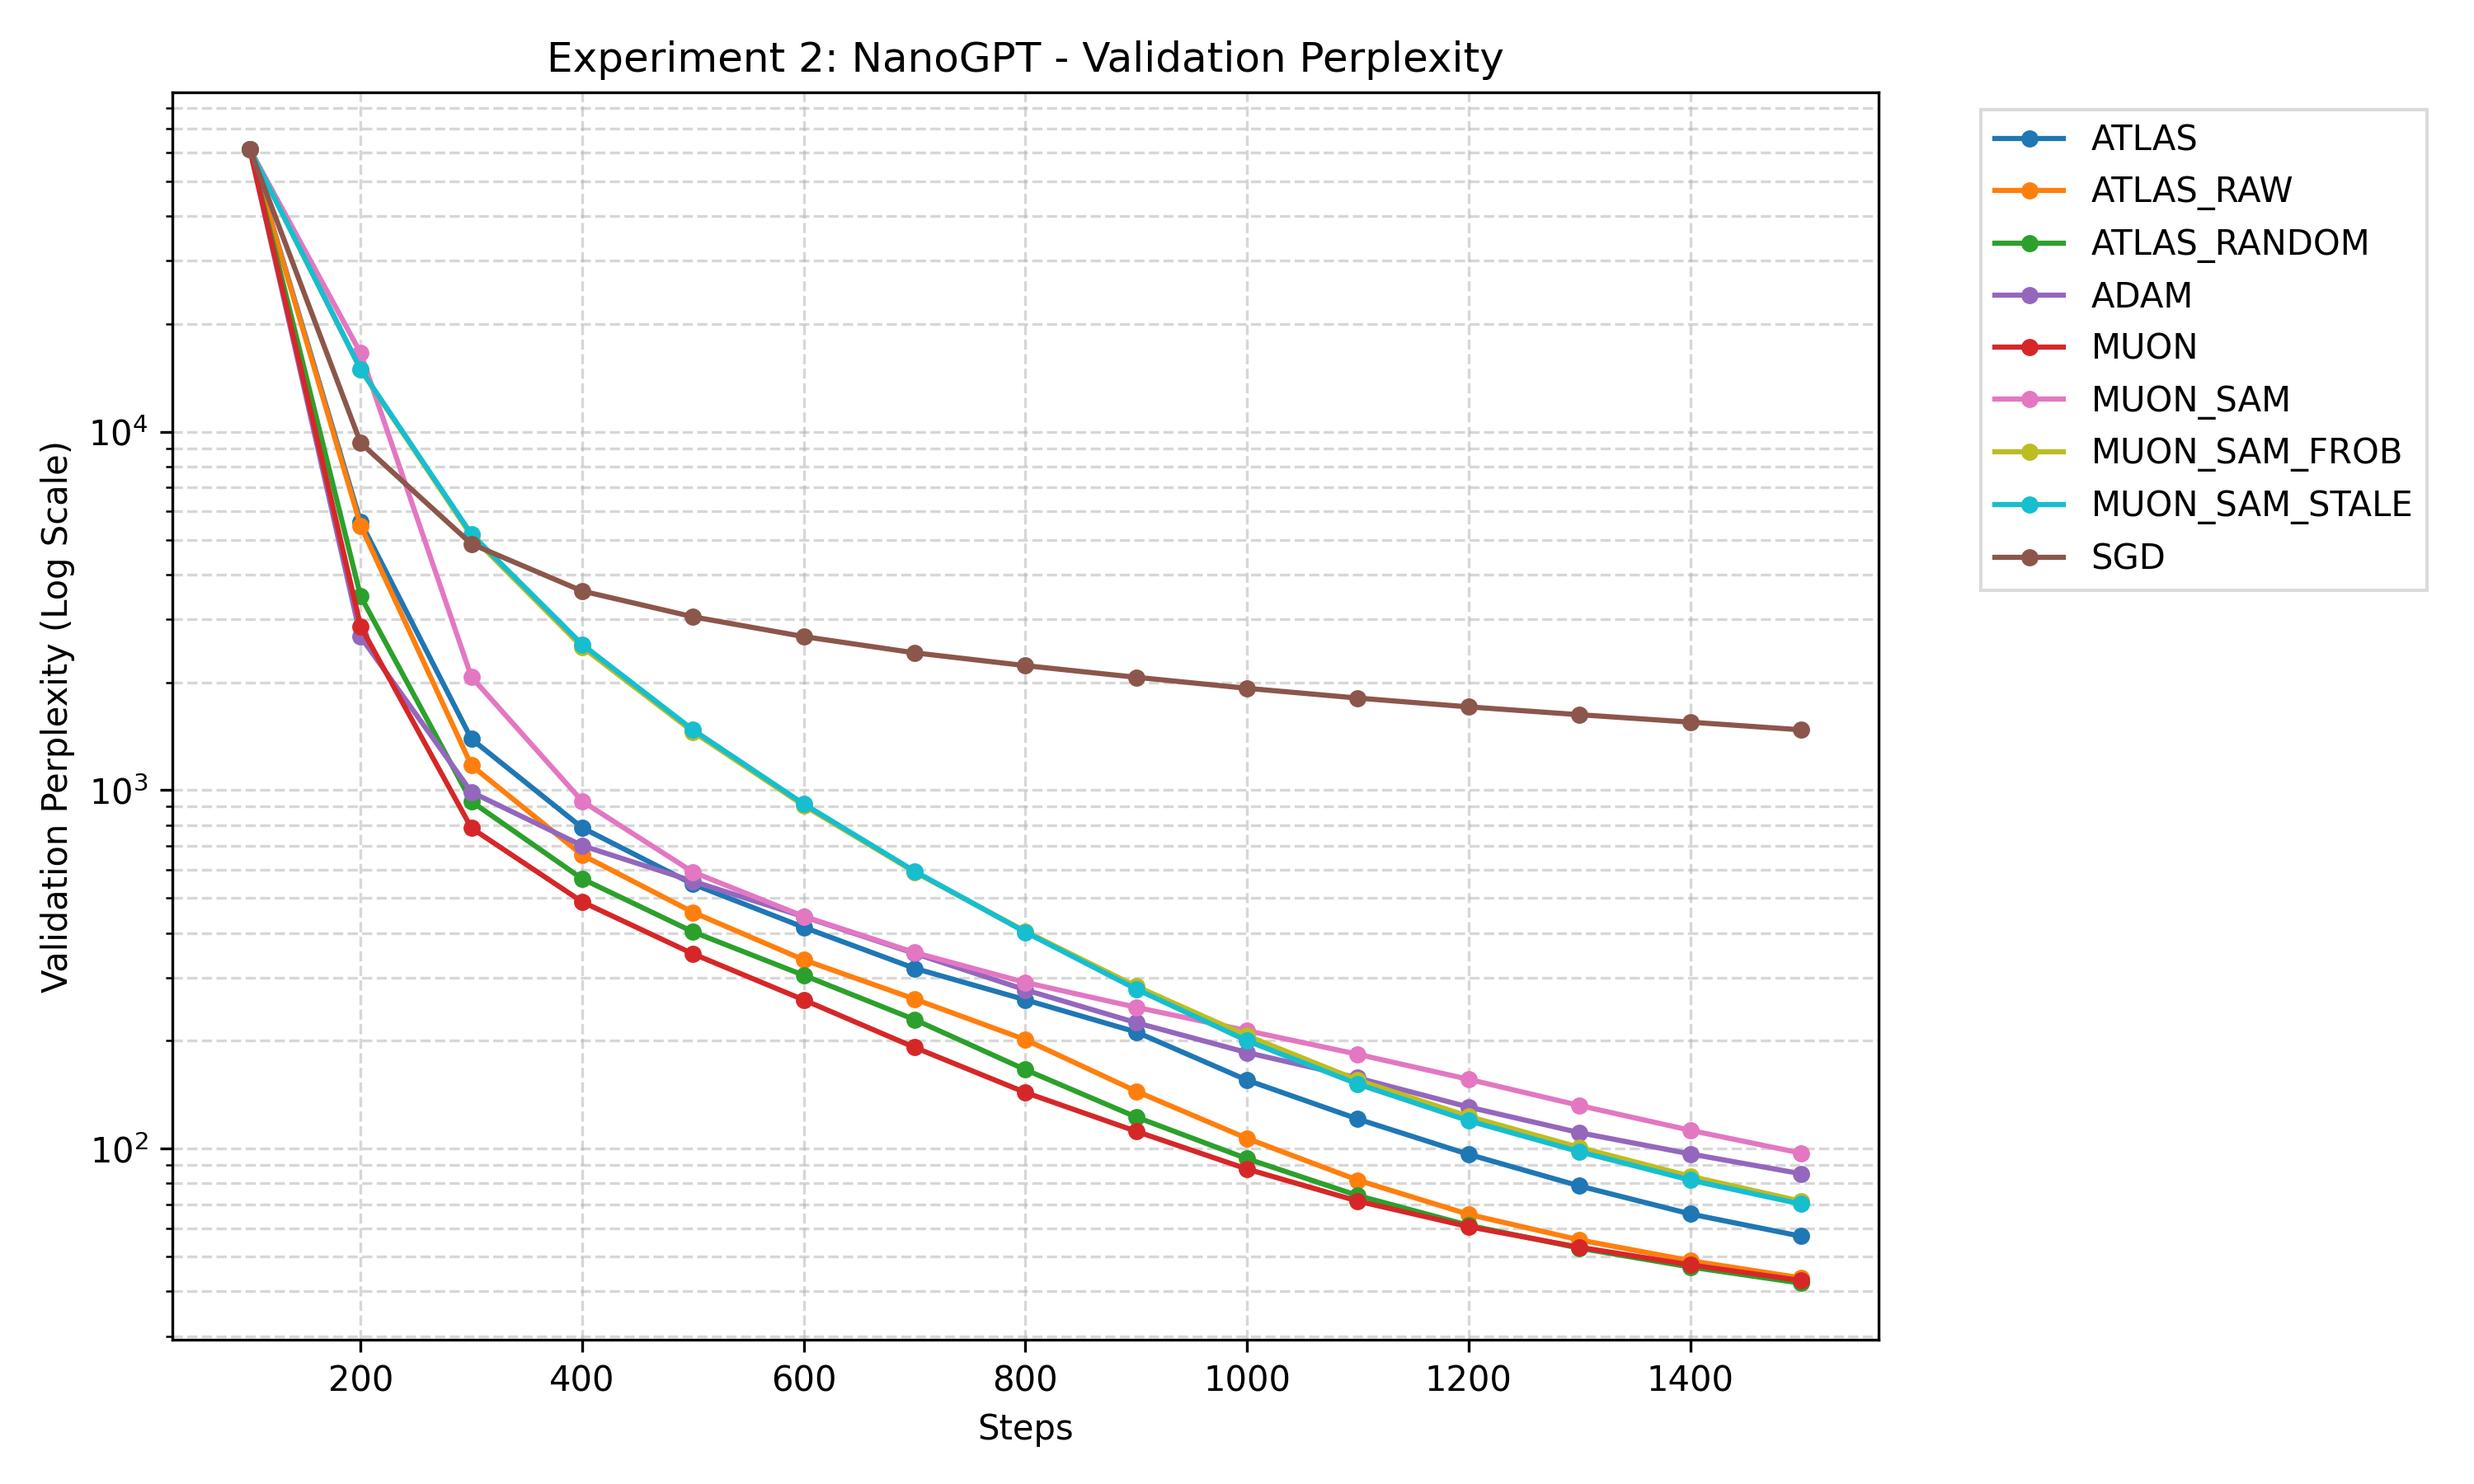
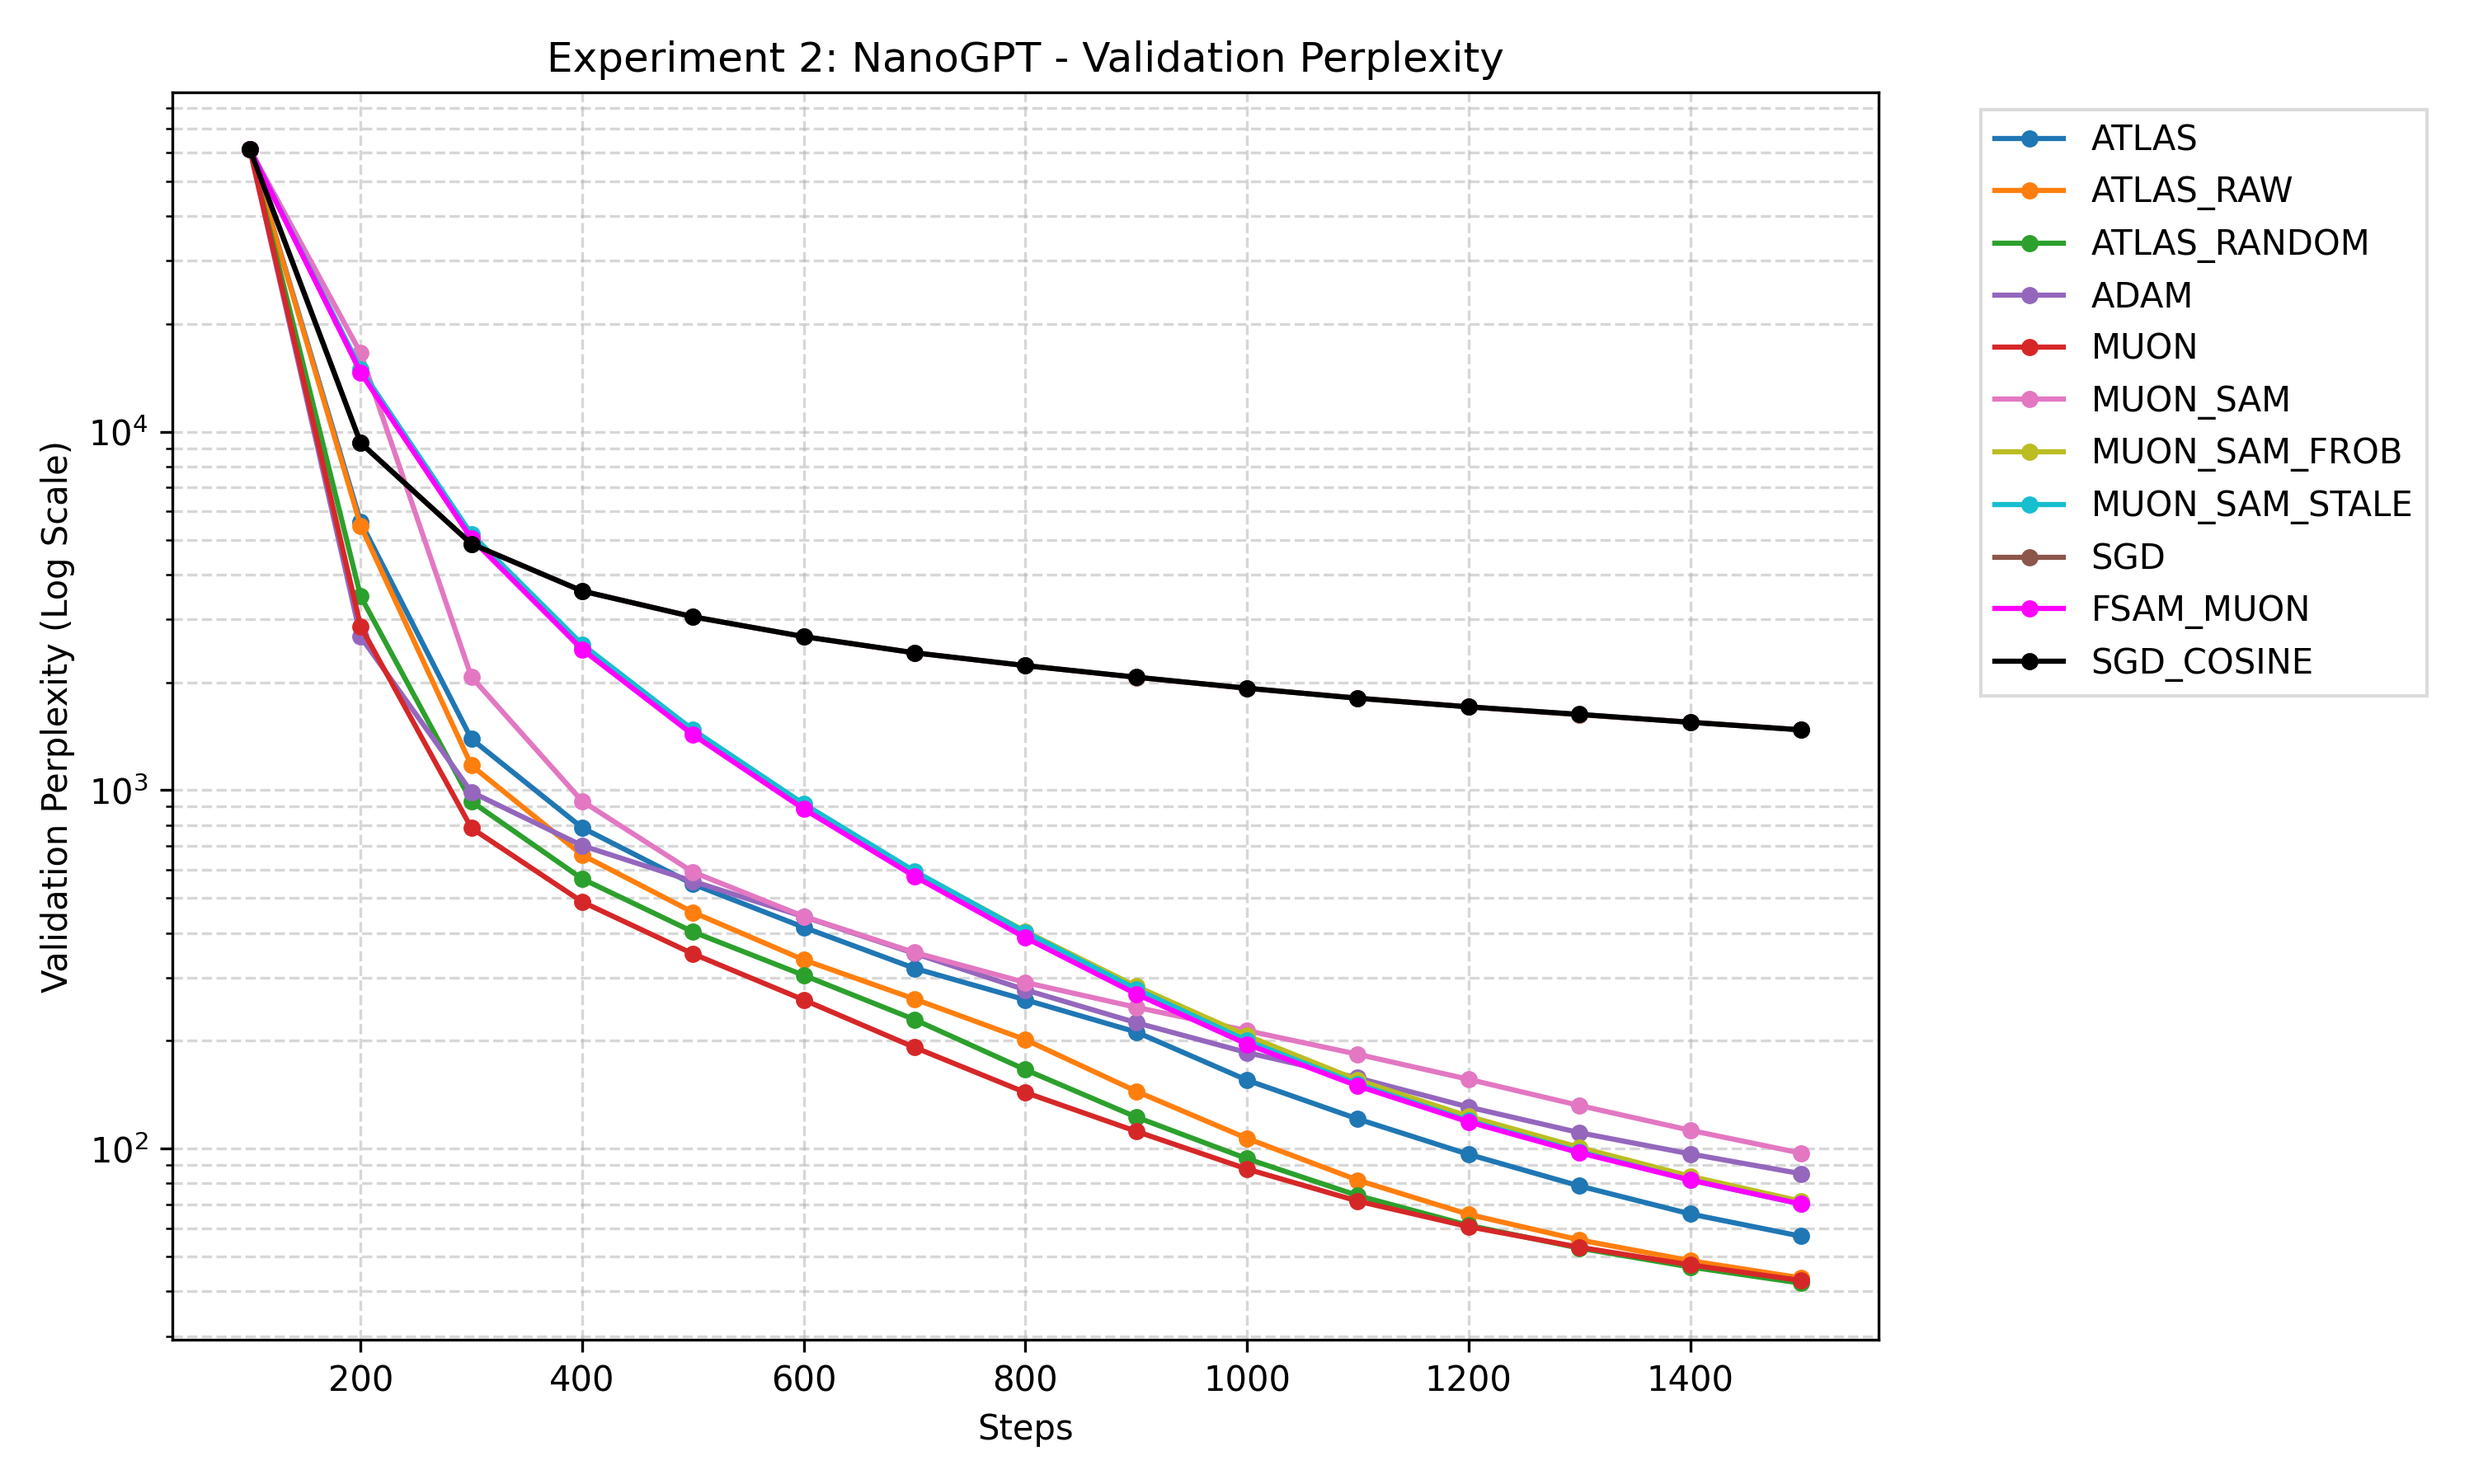
fsam_muon and sgd cosine

diff --git a/helpers/process_logs.py b/helpers/process_logs.py
@@ -64,7 +64,9 @@ def plot_metrics(csv_path, plot_path_prefix, title):
         'sgd': 'tab:brown', 
         'muon_sam': 'tab:pink',
         'muon_sam_frob': 'tab:olive',
-        'muon_sam_stale': 'tab:cyan'
+        'muon_sam_stale': 'tab:cyan',
+        'fsam_muon': 'magenta',
+        'sgd_cosine': 'black'
     }
     
     # 1. PPL Plot (if not cifar)
@@ -131,7 +133,7 @@ def generate_markdown_tables():
             md_ppl += "| Optimizer | Final Validation Perplexity |\n"
             md_ppl += "| :--- | :--- |\n"
             
-        opts_order = ['atlas_random', 'atlas_raw', 'atlas', 'adam', 'muon', 'muon_sam', 'muon_sam_frob', 'muon_sam_stale', 'sgd']
+        opts_order = ['atlas_random', 'atlas_raw', 'atlas', 'adam', 'muon', 'muon_sam', 'muon_sam_frob', 'muon_sam_stale', 'fsam_muon', 'sgd', 'sgd_cosine']
         for opt in opts_order:
             opt_df = df[df['optimizer'].str.lower() == opt]
             if opt_df.empty: continue
@@ -146,8 +148,10 @@ def generate_markdown_tables():
             if display_name == 'MUON_SAM': display_name = 'Muon-SAM'
             elif display_name == 'MUON_SAM_FROB': display_name = 'Muon-SAM (Frob)'
             elif display_name == 'MUON_SAM_STALE': display_name = 'Muon-SAM (Stale)'
+            elif display_name == 'FSAM_MUON': display_name = 'FSAM-Muon'
             elif display_name == 'ADAM': display_name = 'AdamW'
             elif display_name == 'SGD': display_name = 'SGD'
+            elif display_name == 'SGD_COSINE': display_name = 'SGD (Cosine)'
             elif display_name == 'MUON': display_name = 'Muon'
             elif display_name == 'ATLAS': display_name = 'Atlas'
             elif display_name == 'ATLAS_RAW': display_name = 'Atlas Raw'
@@ -181,21 +185,24 @@ def update_readme():
 
 if __name__ == '__main__':
     # 1. CIFAR10
-    df_frob_stale_1 = parse_log_text('run1_frob_stale_cifar10.log', 100)
-    df_sgd_1 = parse_log_text('final_logs/run1_sgd_new.log', 100)
-    combine_and_save_csv('final_logs/run1_cifar10_logs.csv', [df_frob_stale_1, df_sgd_1])
+    df_fsam_1 = parse_log_text('run1_fsam_muon_cifar10.log', 100)
+    combine_and_save_csv('final_logs/run1_cifar10_logs.csv', [df_fsam_1])
     plot_metrics('final_logs/run1_cifar10_logs.csv', 'final_logs/run1_cifar10', 'Experiment 1: CIFAR-10')
 
     # 2. NanoGPT
-    df_frob_stale_2 = parse_log_text('run2_frob_stale_nanogpt.log', 100)
-    df_sgd_2 = parse_log_text('final_logs/run2_sgd_new.log', 100)
-    combine_and_save_csv('final_logs/run2_nanogpt_logs.csv', [df_frob_stale_2, df_sgd_2])
+    df_fsam_2 = parse_log_text('run2_fsam_muon_nanogpt.log', 100)
+    df_sgd_cos_2 = parse_log_text('run2_sgd_cosine_nanogpt.log', 100)
+    if not df_sgd_cos_2.empty:
+        df_sgd_cos_2['optimizer'] = 'sgd_cosine'
+    combine_and_save_csv('final_logs/run2_nanogpt_logs.csv', [df_fsam_2, df_sgd_cos_2])
     plot_metrics('final_logs/run2_nanogpt_logs.csv', 'final_logs/run2_nanogpt', 'Experiment 2: NanoGPT')
 
     # 3. Pythia
-    df_frob_stale_3 = parse_log_text('run3_frob_stale_pythia.log', 100)
-    df_sgd_3 = parse_log_text('final_logs/run3_sgd_new.log', 100)
-    combine_and_save_csv('final_logs/run3_pythia_logs.csv', [df_frob_stale_3, df_sgd_3])
+    df_fsam_3 = parse_log_text('run3_fsam_muon_pythia.log', 100)
+    df_sgd_cos_3 = parse_log_text('run3_sgd_cosine_pythia.log', 100)
+    if not df_sgd_cos_3.empty:
+        df_sgd_cos_3['optimizer'] = 'sgd_cosine'
+    combine_and_save_csv('final_logs/run3_pythia_logs.csv', [df_fsam_3, df_sgd_cos_3])
     plot_metrics('final_logs/run3_pythia_logs.csv', 'final_logs/run3_pythia', 'Experiment 3: Pythia')
 
     update_readme()

diff --git a/README.md b/README.md
@@ -195,6 +195,7 @@ Output: `final_logs/<name>_logs.csv` (with `step` column) and `final_logs/<name>
 | **Muon-SAM** | 0.9166 | 34.67% | 0.8812 | 69.37% |
 | **Muon-SAM (Frob)** | 0.6736 | 38.76% | 0.6606 | 77.16% |
 | **Muon-SAM (Stale)** | 0.6771 | 38.64% | 0.6746 | 76.61% |
+| **FSAM-Muon** | 0.7493 | 37.42% | 0.7197 | 74.62% |
 | **SGD** | 1.0571 | 62.96% | 1.1096 | 60.99% |
 
 #### Experiment 2: nanoGPT Continual Pre-Training
@@ -208,7 +209,9 @@ Output: `final_logs/<name>_logs.csv` (with `step` column) and `final_logs/<name>
 | **Muon-SAM** | 4.7394 | 24.12% | 4.5769 | 25.40% |
 | **Muon-SAM (Frob)** | 4.4538 | 27.22% | 4.2678 | 28.89% |
 | **Muon-SAM (Stale)** | 4.4341 | 27.38% | 4.2497 | 29.02% |
+| **FSAM-Muon** | 4.4333 | 27.43% | 4.2501 | 29.05% |
 | **SGD** | 7.3141 | 13.21% | 7.2956 | 13.59% |
+| **SGD (Cosine)** | 7.3139 | 13.21% | 7.2954 | 13.61% |
 
 #### Experiment 3: Pythia-70M Continual Pre-Training
 | Optimizer | Final Train Loss | Final Train Acc | Final Val Loss | Final Val Acc |
@@ -221,7 +224,9 @@ Output: `final_logs/<name>_logs.csv` (with `step` column) and `final_logs/<name>
 | **Muon-SAM** | 4.8280 | 23.48% | 4.7622 | 23.97% |
 | **Muon-SAM (Frob)** | 4.4951 | 27.45% | 4.4271 | 27.94% |
 | **Muon-SAM (Stale)** | 4.4722 | 27.73% | 4.4056 | 28.16% |
+| **FSAM-Muon** | 4.3689 | 28.67% | 4.2935 | 29.24% |
 | **SGD** | 7.4629 | 11.42% | 7.4197 | 11.54% |
+| **SGD (Cosine)** | 7.4646 | 11.42% | 7.4212 | 11.53% |
 
 ### Language Modeling Validation Perplexity Results
 
@@ -236,7 +241,9 @@ Output: `final_logs/<name>_logs.csv` (with `step` column) and `final_logs/<name>
 | **Muon-SAM** | 97.21 |
 | **Muon-SAM (Frob)** | 71.36 |
 | **Muon-SAM (Stale)** | 70.08 |
+| **FSAM-Muon** | 70.11 |
 | **SGD** | 1473.80 |
+| **SGD (Cosine)** | 1473.51 |
 
 #### Experiment 3: Pythia-70M Continual Pre-Training
 | Optimizer | Final Validation Perplexity |
@@ -249,7 +256,9 @@ Output: `final_logs/<name>_logs.csv` (with `step` column) and `final_logs/<name>
 | **Muon-SAM** | 117.00 |
 | **Muon-SAM (Frob)** | 83.69 |
 | **Muon-SAM (Stale)** | 81.91 |
+| **FSAM-Muon** | 73.22 |
 | **SGD** | 1668.53 |
+| **SGD (Cosine)** | 1671.04 |
 
 *(Note: CIFAR-10 is an image classification task evaluated on Cross-Entropy Loss and Accuracy, and therefore does not have a Perplexity metric).*
 
